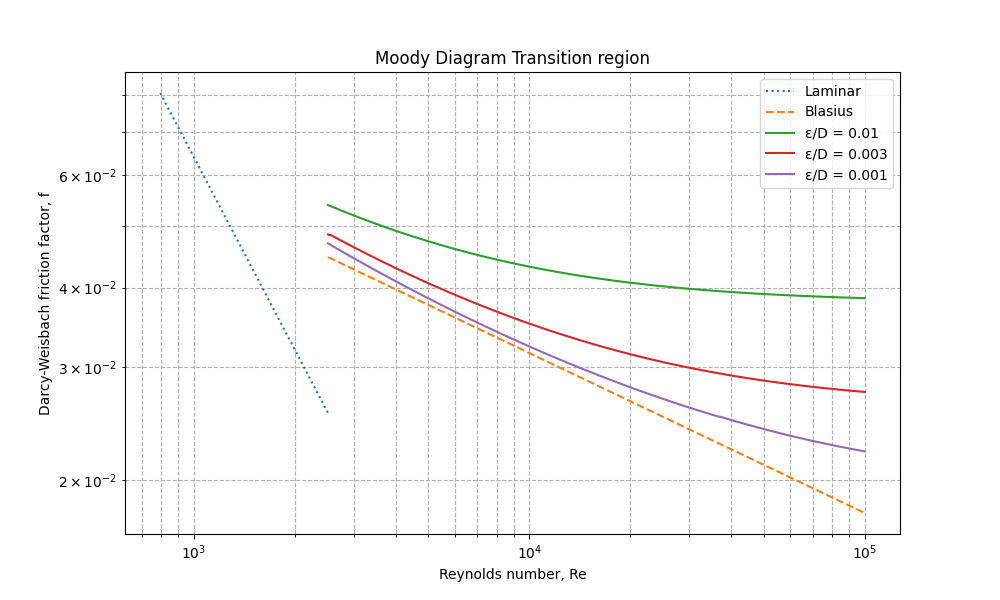
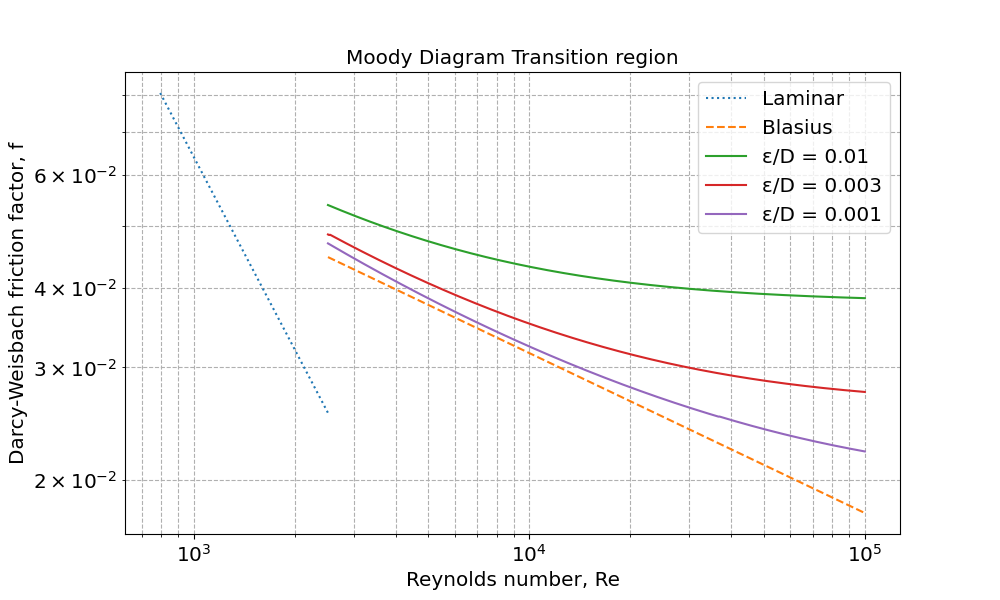
bigger titles

diff --git a/peng.py b/peng.py
@@ -91,8 +91,8 @@ gas_mixtures = {
     # https://en.wikipedia.org/wiki/National_Transmission_System
     # This NTS composition from Wikipedia actually comes from 1979 !  Cassidy, Richard (1979). Gas: Natural Energy. London: Frederick Muller Limited. p. 14.
     
-   'Fordoun': {'CH4': 0.895514, 'C2H6': 0.051196, 'C3H8': 0.013549, 'iC4': 0.001269, 'nC4': 0.002162, 'neoC5': 2e-05, 'iC5': 0.000344, 'nC5': 0.003472, 'C6': 0.002377, 'CO2': 0.020743, 'N2': 0.009354}, # Normalized.email John Baldwin 30/12/2023
-    # 'Fordoun': { 'CH4':  0.900253, 'C2H6':  0.051467, 'C3H8':  0.013621, 'iC4':  0.001276, 'nC4':  0.002173, 'neoC5':  0.000020,'iC5':  0.000346, 'nC5':  0.003490,  'C6':  0.002390, 'CO2':  0.020853, 'N2':  0.009404, }, # original email John Baldwin 30/12/2023
+   'NG': {'CH4': 0.895514, 'C2H6': 0.051196, 'C3H8': 0.013549, 'iC4': 0.001269, 'nC4': 0.002162, 'neoC5': 2e-05, 'iC5': 0.000344, 'nC5': 0.003472, 'C6': 0.002377, 'CO2': 0.020743, 'N2': 0.009354}, # Normalized.email John Baldwin 30/12/2023 - Fordoun
+    # 'Fordoun': { 'CH4':  0.900253, 'C2H6':  0.051467, 'C3H8':  0.013621, 'iC4':  0.001276, 'nC4':  0.002173, 'neoC5':  0.000020,'iC5':  0.000346, 'nC5':  0.003490,  'C6':  0.002390, 'CO2':  0.020853, 'N2':  0.009404, }, # original email John Baldwin 30/12/2023, unnormalized
 
     '11D': { 'CH4':  0.88836, 'C2H6':  0.04056, 'C3H8':  0.00997, 'iC4':  0.00202, 'nC4':  0.00202, 'iC5':  0.00050, 'nC5':  0.00050, 'neoC5':  0.00050, 'C6':  0.00049, 'CO2':  0.01512, 'N2':  0.03996, }, # normlized 11D gas from Duchowny22, doi:10.1016/j.egyr.2022.02.289
     
@@ -123,10 +123,10 @@ gas_mixture_properties = {
 # 20% H2, remainder N.Sea gas. BUT may need adjusting to maintain Wobbe value, by adding N2 probably.
 fifth = {}
 fifth['H2'] = 0.2
-ng = gas_mixtures['Fordoun']
+ng = gas_mixtures['NG']
 for g in ng:
     fifth[g] = ng[g]*0.8
-gas_mixtures['Fordoun+20%H2'] = fifth
+gas_mixtures['NG+20%H2'] = fifth
 
 air = {}
 air['H2O'] = 0.0084 # 50% RH at 15
@@ -137,11 +137,11 @@ gas_mixtures['Air'] = air
 
 #print(f"NatGas gas 11D composition: Duchowny22, doi:10.1016/j.egyr.2022.02.289")
 print(f"NatGas at Fordoun NTS 20th Jan.2021")
-nts = gas_mixtures["Fordoun"]
+nts = gas_mixtures["NG"]
 for f in nts:
     print(f"{f:5}\t{nts[f]*100:7.5f} %")
     
-display_gases = ["Fordoun", "Fordoun+20%H2", "GG"]
+display_gases = ["NG", "NG+20%H2"]
 # Binary interaction parameters for hydrocarbons for Peng-Robinson
 # based on the Chueh-Prausnitz correlation
 # from https://wiki.whitson.com/eos/cubic_eos/
@@ -722,7 +722,13 @@ print(f"W_factor_ϱ =  1/(sqrt(ϱ/ϱ(air))) ")
 
 
 # Plot defaults
-plt.rcParams.update({'axes.titlesize': 'x-large', 'figure.titlesize': 'large', 'legend.fontsize': 'large',})
+params = {'legend.fontsize': 'x-large',
+          'figure.figsize': (10, 6),
+         'axes.labelsize': 'x-large',
+         'axes.titlesize':'x-large',
+         'xtick.labelsize':'x-large',
+         'ytick.labelsize':'x-large'}
+plt.rcParams.update(params)
 
 print(f"{'gas':13} {'Hc(MJ/mol)':11} {'MV₀(m³/mol)':11} {'Hc(MJ/m³)':11}{'W_factor_ϱ':11} Wobbe(MJ/m³) ")
 for g in gases:
@@ -795,7 +801,7 @@ plt.close()
 
 # Vicosity for gas mixtures LGE
 # μ_ng[mix] was calculated earlier, but not plotted earlier
-for mix in gas_mixtures:
+for mix in display_gases:
    plt.plot(temperatures - T273, μ_ng[mix], label=mix)
 
 # Viscosity plots for pure gases

diff --git a/moody.py b/moody.py
@@ -209,6 +209,14 @@ relative_roughness_values = [0.01, 0.001, 0.0001, 0.00001]
 
 fp = piggot()
 
+params = {'legend.fontsize': 'x-large',
+          'figure.figsize': (10, 6),
+         'axes.labelsize': 'x-large',
+         'axes.titlesize':'x-large',
+         'xtick.labelsize':'x-large',
+         'ytick.labelsize':'x-large'}
+plt.rcParams.update(params)
+
 plot_diagram('Moody Diagram', 'moody_diagram.png', plot="loglog")
 
 # Plot enlarged diagram
